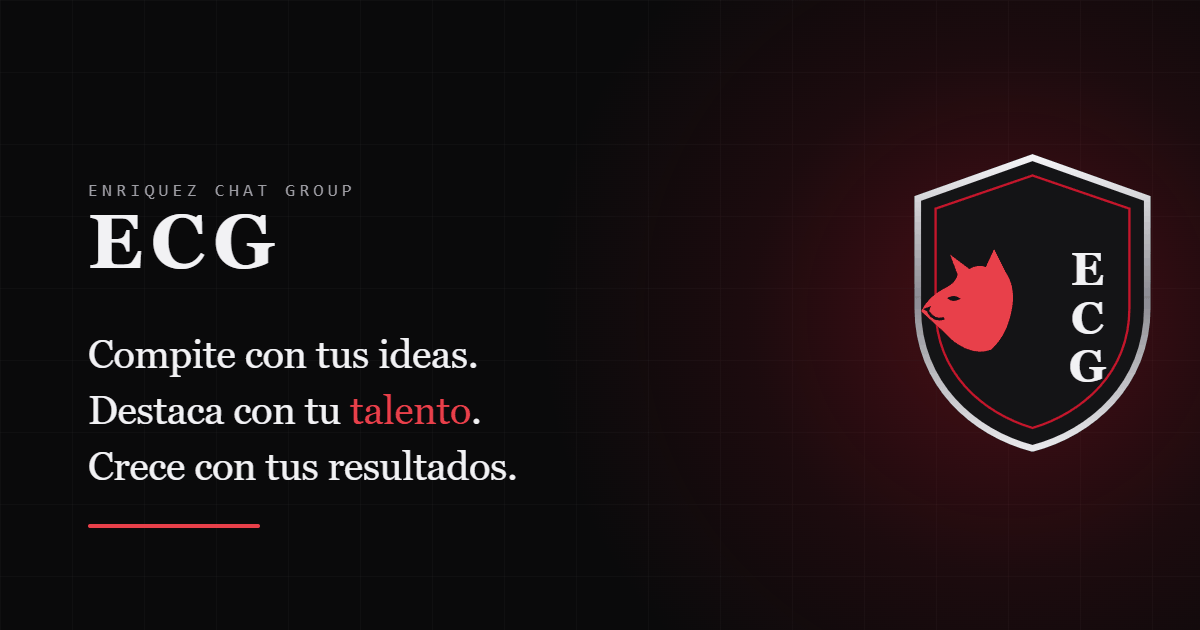
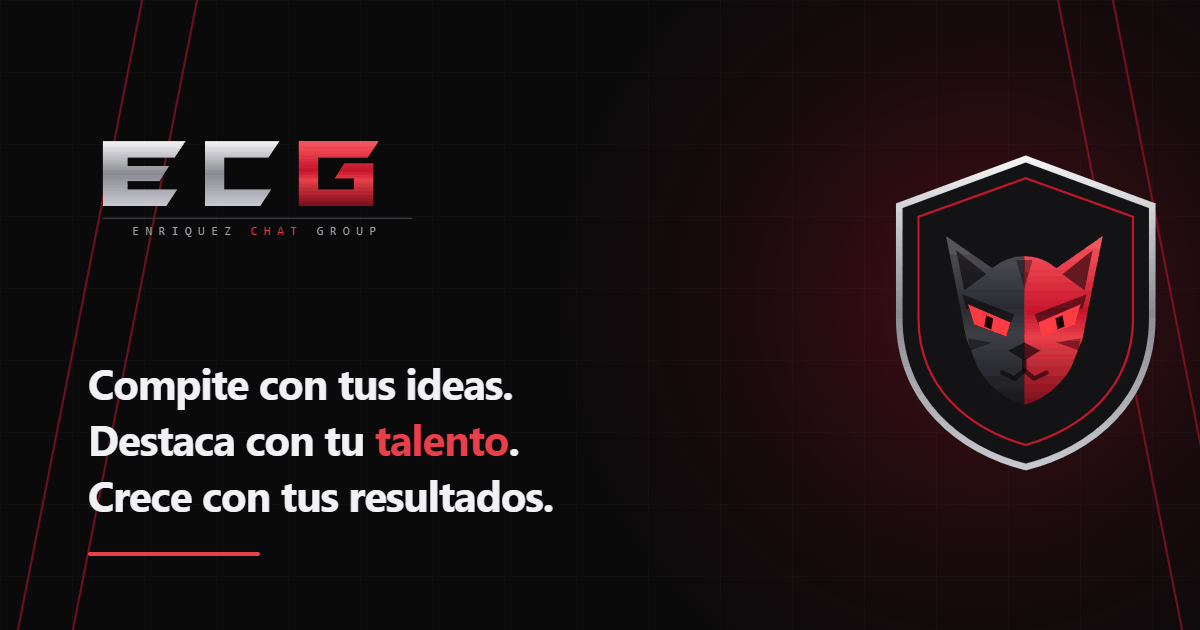
Rehacer la identidad siguiendo la referencia de marca
El puma pasa de perfil a vista frontal, partido en vertical entre metal y
rojo, con ojos rasgados y pupila felina. La version anterior de perfil
resultaba demasiado amable para lo que pedia la referencia.

Nuevo logotipo con letras angulares dibujadas como trazados, biseladas,
con la G en rojo, filete y el nombre completo debajo. Sustituye al ECG en
serif del hero, porque una serif clasica no casa con un logotipo angular;
los titulares vuelven a la sans.

Anade vetas rojas en diagonal al fondo del hero y rehace el emblema, el
favicon y la imagen de Open Graph con la marca nueva.

diff --git a/index.html b/index.html
@@ -25,8 +25,8 @@
 <meta name="twitter:description" content="Debate, competencia y economia en un solo ecosistema. Lista de espera abierta.">
 <meta name="twitter:image" content="https://elpicantecl052-pixel.github.io/ECG/assets/og-image.png">
 <meta name="twitter:image:alt" content="ECG — Compite con tus ideas. Destaca con tu talento. Crece con tus resultados.">
-<link rel="stylesheet" href="css/reset.css?v=10">
-<link rel="stylesheet" href="css/styles.css?v=10">
+<link rel="stylesheet" href="css/reset.css?v=11">
+<link rel="stylesheet" href="css/styles.css?v=11">
 <!-- Analiticas pendientes: crea un sitio gratuito en goatcounter.com
      y pon tu codigo en GOATCOUNTER, dentro de tools/build.py. -->
 </head>
@@ -36,11 +36,12 @@
 <header class="nav" role="banner">
   <div class="nav__in">
     <a class="brand" href="#top" aria-label="ECG, inicio">
-      <svg class="brand__mark" viewBox="0 0 90 100" aria-hidden="true" focusable="false">
-        <path d="M8 54 C 12 46, 18 41, 26 37 C 31 34.5, 33.5 31.5, 34.5 27.5 L 29 13 L 43 23.5 C 47 21, 51 20.5, 55 22 L 61 9 L 69.5 26 C 74 32, 76 42, 74 52 C 72 64, 67.5 74, 59 82 C 47 87, 33 79, 25.5 70 C 19 64, 12 58, 8 54 Z" fill="currentColor"/>
-        <path d="M27 44.5 C 30 42.5, 34 42.5, 36.5 45 C 34 47, 30 47.5, 27 44.5 Z" fill="var(--bg)"/>
-        <path d="M9.5 52.5 L15 50.5 L13.5 55 Z" fill="var(--bg)"/>
-        <path d="M13.5 55 C 16 59, 20 60.5, 24 59.5" fill="none" stroke="var(--bg)" stroke-width="2" stroke-linecap="round"/>
+      <svg class="brand__mark" viewBox="0 0 100 100" aria-hidden="true" focusable="false">
+        <defs><clipPath id="bm1"><rect x="50" y="0" width="50" height="100"/></clipPath></defs>
+        <path d="M50 95 C 42 93, 33 87, 27 77 L 21 62 L 18 46 L 11 11 L 34 27 C 39 23, 44 21, 50 21 C 56 21, 61 23, 66 27 L 89 11 L 82 46 L 79 62 L 73 77 C 67 87, 58 93, 50 95 Z" fill="var(--metal-1)" opacity=".55"/>
+        <g clip-path="url(#bm1)"><path d="M50 95 C 42 93, 33 87, 27 77 L 21 62 L 18 46 L 11 11 L 34 27 C 39 23, 44 21, 50 21 C 56 21, 61 23, 66 27 L 89 11 L 82 46 L 79 62 L 73 77 C 67 87, 58 93, 50 95 Z" fill="var(--accent-deep)"/></g>
+        <path d="M22 45 L43 54 L41 61 L25 55 Z" fill="var(--accent)"/>
+        <path d="M78 45 L57 54 L59 61 L75 55 Z" fill="var(--accent)"/>
       </svg>
       <span class="brand__word">ECG</span>
       <span class="brand__full">Enriquez Chat Group</span>
@@ -77,6 +78,7 @@
   <section class="hero" id="top">
     <div class="hero__field" aria-hidden="true">
       <div class="hero__grid"></div>
+      <div class="hero__vetas"></div>
       <div class="hero__glow"></div>
     </div>
 
@@ -84,9 +86,12 @@
       <p class="eyebrow reveal">Enriquez Chat Group · Plataforma social global</p>
 
       <div class="hero__lockup reveal">
-        <img class="hero__emblema" src="assets/emblema.svg" width="150" height="180"
-             alt="Emblema de ECG: un escudo partido en dos mitades, con un puma chileno de perfil a la izquierda y las letras E, C y G a la derecha.">
-        <h1 class="hero__h1">ECG</h1>
+        <img class="hero__emblema" src="assets/emblema.svg" width="106" height="120"
+             alt="">
+        <h1 class="hero__h1">
+          <img src="assets/logotipo.svg" width="260" height="95"
+               alt="ECG, Enriquez Chat Group">
+        </h1>
       </div>
 
       <p class="hero__motto reveal">
@@ -750,11 +755,12 @@
   <div class="wrap foot__in">
     <div class="foot__brand">
       <a class="brand" href="#top" aria-label="ECG, volver arriba">
-        <svg class="brand__mark" viewBox="0 0 90 100" aria-hidden="true" focusable="false">
-        <path d="M8 54 C 12 46, 18 41, 26 37 C 31 34.5, 33.5 31.5, 34.5 27.5 L 29 13 L 43 23.5 C 47 21, 51 20.5, 55 22 L 61 9 L 69.5 26 C 74 32, 76 42, 74 52 C 72 64, 67.5 74, 59 82 C 47 87, 33 79, 25.5 70 C 19 64, 12 58, 8 54 Z" fill="currentColor"/>
-        <path d="M27 44.5 C 30 42.5, 34 42.5, 36.5 45 C 34 47, 30 47.5, 27 44.5 Z" fill="var(--bg)"/>
-        <path d="M9.5 52.5 L15 50.5 L13.5 55 Z" fill="var(--bg)"/>
-        <path d="M13.5 55 C 16 59, 20 60.5, 24 59.5" fill="none" stroke="var(--bg)" stroke-width="2" stroke-linecap="round"/>
+        <svg class="brand__mark" viewBox="0 0 100 100" aria-hidden="true" focusable="false">
+        <defs><clipPath id="bm2"><rect x="50" y="0" width="50" height="100"/></clipPath></defs>
+        <path d="M50 95 C 42 93, 33 87, 27 77 L 21 62 L 18 46 L 11 11 L 34 27 C 39 23, 44 21, 50 21 C 56 21, 61 23, 66 27 L 89 11 L 82 46 L 79 62 L 73 77 C 67 87, 58 93, 50 95 Z" fill="var(--metal-1)" opacity=".55"/>
+        <g clip-path="url(#bm2)"><path d="M50 95 C 42 93, 33 87, 27 77 L 21 62 L 18 46 L 11 11 L 34 27 C 39 23, 44 21, 50 21 C 56 21, 61 23, 66 27 L 89 11 L 82 46 L 79 62 L 73 77 C 67 87, 58 93, 50 95 Z" fill="var(--accent-deep)"/></g>
+        <path d="M22 45 L43 54 L41 61 L25 55 Z" fill="var(--accent)"/>
+        <path d="M78 45 L57 54 L59 61 L75 55 Z" fill="var(--accent)"/>
       </svg>
         <span class="brand__word">ECG</span>
       <span class="brand__full">Enriquez Chat Group</span>
@@ -793,7 +799,7 @@
   </div>
 </footer>
 
-<script src="js/main.js?v=10"></script>
-<script src="js/interactive.js?v=10"></script>
+<script src="js/main.js?v=11"></script>
+<script src="js/interactive.js?v=11"></script>
 </body>
 </html>

diff --git a/artifact.html b/artifact.html
@@ -1,17 +1,18 @@
 <title>ECG</title>
-<link rel="stylesheet" href="css/reset.css?v=10">
-<link rel="stylesheet" href="css/styles.css?v=10">
+<link rel="stylesheet" href="css/reset.css?v=11">
+<link rel="stylesheet" href="css/styles.css?v=11">
 
 <a class="skip" href="#main">Saltar al contenido</a>
 
 <header class="nav" role="banner">
   <div class="nav__in">
     <a class="brand" href="#top" aria-label="ECG, inicio">
-      <svg class="brand__mark" viewBox="0 0 90 100" aria-hidden="true" focusable="false">
-        <path d="M8 54 C 12 46, 18 41, 26 37 C 31 34.5, 33.5 31.5, 34.5 27.5 L 29 13 L 43 23.5 C 47 21, 51 20.5, 55 22 L 61 9 L 69.5 26 C 74 32, 76 42, 74 52 C 72 64, 67.5 74, 59 82 C 47 87, 33 79, 25.5 70 C 19 64, 12 58, 8 54 Z" fill="currentColor"/>
-        <path d="M27 44.5 C 30 42.5, 34 42.5, 36.5 45 C 34 47, 30 47.5, 27 44.5 Z" fill="var(--bg)"/>
-        <path d="M9.5 52.5 L15 50.5 L13.5 55 Z" fill="var(--bg)"/>
-        <path d="M13.5 55 C 16 59, 20 60.5, 24 59.5" fill="none" stroke="var(--bg)" stroke-width="2" stroke-linecap="round"/>
+      <svg class="brand__mark" viewBox="0 0 100 100" aria-hidden="true" focusable="false">
+        <defs><clipPath id="bm1"><rect x="50" y="0" width="50" height="100"/></clipPath></defs>
+        <path d="M50 95 C 42 93, 33 87, 27 77 L 21 62 L 18 46 L 11 11 L 34 27 C 39 23, 44 21, 50 21 C 56 21, 61 23, 66 27 L 89 11 L 82 46 L 79 62 L 73 77 C 67 87, 58 93, 50 95 Z" fill="var(--metal-1)" opacity=".55"/>
+        <g clip-path="url(#bm1)"><path d="M50 95 C 42 93, 33 87, 27 77 L 21 62 L 18 46 L 11 11 L 34 27 C 39 23, 44 21, 50 21 C 56 21, 61 23, 66 27 L 89 11 L 82 46 L 79 62 L 73 77 C 67 87, 58 93, 50 95 Z" fill="var(--accent-deep)"/></g>
+        <path d="M22 45 L43 54 L41 61 L25 55 Z" fill="var(--accent)"/>
+        <path d="M78 45 L57 54 L59 61 L75 55 Z" fill="var(--accent)"/>
       </svg>
       <span class="brand__word">ECG</span>
       <span class="brand__full">Enriquez Chat Group</span>
@@ -48,6 +49,7 @@
   <section class="hero" id="top">
     <div class="hero__field" aria-hidden="true">
       <div class="hero__grid"></div>
+      <div class="hero__vetas"></div>
       <div class="hero__glow"></div>
     </div>
 
@@ -55,9 +57,12 @@
       <p class="eyebrow reveal">Enriquez Chat Group · Plataforma social global</p>
 
       <div class="hero__lockup reveal">
-        <img class="hero__emblema" src="assets/emblema.svg" width="150" height="180"
-             alt="Emblema de ECG: un escudo partido en dos mitades, con un puma chileno de perfil a la izquierda y las letras E, C y G a la derecha.">
-        <h1 class="hero__h1">ECG</h1>
+        <img class="hero__emblema" src="assets/emblema.svg" width="106" height="120"
+             alt="">
+        <h1 class="hero__h1">
+          <img src="assets/logotipo.svg" width="260" height="95"
+               alt="ECG, Enriquez Chat Group">
+        </h1>
       </div>
 
       <p class="hero__motto reveal">
@@ -721,11 +726,12 @@
   <div class="wrap foot__in">
     <div class="foot__brand">
       <a class="brand" href="#top" aria-label="ECG, volver arriba">
-        <svg class="brand__mark" viewBox="0 0 90 100" aria-hidden="true" focusable="false">
-        <path d="M8 54 C 12 46, 18 41, 26 37 C 31 34.5, 33.5 31.5, 34.5 27.5 L 29 13 L 43 23.5 C 47 21, 51 20.5, 55 22 L 61 9 L 69.5 26 C 74 32, 76 42, 74 52 C 72 64, 67.5 74, 59 82 C 47 87, 33 79, 25.5 70 C 19 64, 12 58, 8 54 Z" fill="currentColor"/>
-        <path d="M27 44.5 C 30 42.5, 34 42.5, 36.5 45 C 34 47, 30 47.5, 27 44.5 Z" fill="var(--bg)"/>
-        <path d="M9.5 52.5 L15 50.5 L13.5 55 Z" fill="var(--bg)"/>
-        <path d="M13.5 55 C 16 59, 20 60.5, 24 59.5" fill="none" stroke="var(--bg)" stroke-width="2" stroke-linecap="round"/>
+        <svg class="brand__mark" viewBox="0 0 100 100" aria-hidden="true" focusable="false">
+        <defs><clipPath id="bm2"><rect x="50" y="0" width="50" height="100"/></clipPath></defs>
+        <path d="M50 95 C 42 93, 33 87, 27 77 L 21 62 L 18 46 L 11 11 L 34 27 C 39 23, 44 21, 50 21 C 56 21, 61 23, 66 27 L 89 11 L 82 46 L 79 62 L 73 77 C 67 87, 58 93, 50 95 Z" fill="var(--metal-1)" opacity=".55"/>
+        <g clip-path="url(#bm2)"><path d="M50 95 C 42 93, 33 87, 27 77 L 21 62 L 18 46 L 11 11 L 34 27 C 39 23, 44 21, 50 21 C 56 21, 61 23, 66 27 L 89 11 L 82 46 L 79 62 L 73 77 C 67 87, 58 93, 50 95 Z" fill="var(--accent-deep)"/></g>
+        <path d="M22 45 L43 54 L41 61 L25 55 Z" fill="var(--accent)"/>
+        <path d="M78 45 L57 54 L59 61 L75 55 Z" fill="var(--accent)"/>
       </svg>
         <span class="brand__word">ECG</span>
       <span class="brand__full">Enriquez Chat Group</span>
@@ -764,5 +770,5 @@
   </div>
 </footer>
 
-<script src="js/main.js?v=10"></script>
-<script src="js/interactive.js?v=10"></script>
+<script src="js/main.js?v=11"></script>
+<script src="js/interactive.js?v=11"></script>

diff --git a/_body.html b/_body.html
@@ -3,11 +3,12 @@
 <header class="nav" role="banner">
   <div class="nav__in">
     <a class="brand" href="#top" aria-label="ECG, inicio">
-      <svg class="brand__mark" viewBox="0 0 90 100" aria-hidden="true" focusable="false">
-        <path d="M8 54 C 12 46, 18 41, 26 37 C 31 34.5, 33.5 31.5, 34.5 27.5 L 29 13 L 43 23.5 C 47 21, 51 20.5, 55 22 L 61 9 L 69.5 26 C 74 32, 76 42, 74 52 C 72 64, 67.5 74, 59 82 C 47 87, 33 79, 25.5 70 C 19 64, 12 58, 8 54 Z" fill="currentColor"/>
-        <path d="M27 44.5 C 30 42.5, 34 42.5, 36.5 45 C 34 47, 30 47.5, 27 44.5 Z" fill="var(--bg)"/>
-        <path d="M9.5 52.5 L15 50.5 L13.5 55 Z" fill="var(--bg)"/>
-        <path d="M13.5 55 C 16 59, 20 60.5, 24 59.5" fill="none" stroke="var(--bg)" stroke-width="2" stroke-linecap="round"/>
+      <svg class="brand__mark" viewBox="0 0 100 100" aria-hidden="true" focusable="false">
+        <defs><clipPath id="bm1"><rect x="50" y="0" width="50" height="100"/></clipPath></defs>
+        <path d="M50 95 C 42 93, 33 87, 27 77 L 21 62 L 18 46 L 11 11 L 34 27 C 39 23, 44 21, 50 21 C 56 21, 61 23, 66 27 L 89 11 L 82 46 L 79 62 L 73 77 C 67 87, 58 93, 50 95 Z" fill="var(--metal-1)" opacity=".55"/>
+        <g clip-path="url(#bm1)"><path d="M50 95 C 42 93, 33 87, 27 77 L 21 62 L 18 46 L 11 11 L 34 27 C 39 23, 44 21, 50 21 C 56 21, 61 23, 66 27 L 89 11 L 82 46 L 79 62 L 73 77 C 67 87, 58 93, 50 95 Z" fill="var(--accent-deep)"/></g>
+        <path d="M22 45 L43 54 L41 61 L25 55 Z" fill="var(--accent)"/>
+        <path d="M78 45 L57 54 L59 61 L75 55 Z" fill="var(--accent)"/>
       </svg>
       <span class="brand__word">ECG</span>
       <span class="brand__full">Enriquez Chat Group</span>
@@ -44,6 +45,7 @@
   <section class="hero" id="top">
     <div class="hero__field" aria-hidden="true">
       <div class="hero__grid"></div>
+      <div class="hero__vetas"></div>
       <div class="hero__glow"></div>
     </div>
 
@@ -51,9 +53,12 @@
       <p class="eyebrow reveal">Enriquez Chat Group · Plataforma social global</p>
 
       <div class="hero__lockup reveal">
-        <img class="hero__emblema" src="assets/emblema.svg" width="150" height="180"
-             alt="Emblema de ECG: un escudo partido en dos mitades, con un puma chileno de perfil a la izquierda y las letras E, C y G a la derecha.">
-        <h1 class="hero__h1">ECG</h1>
+        <img class="hero__emblema" src="assets/emblema.svg" width="106" height="120"
+             alt="">
+        <h1 class="hero__h1">
+          <img src="assets/logotipo.svg" width="260" height="95"
+               alt="ECG, Enriquez Chat Group">
+        </h1>
       </div>
 
       <p class="hero__motto reveal">
@@ -717,11 +722,12 @@
   <div class="wrap foot__in">
     <div class="foot__brand">
       <a class="brand" href="#top" aria-label="ECG, volver arriba">
-        <svg class="brand__mark" viewBox="0 0 90 100" aria-hidden="true" focusable="false">
-        <path d="M8 54 C 12 46, 18 41, 26 37 C 31 34.5, 33.5 31.5, 34.5 27.5 L 29 13 L 43 23.5 C 47 21, 51 20.5, 55 22 L 61 9 L 69.5 26 C 74 32, 76 42, 74 52 C 72 64, 67.5 74, 59 82 C 47 87, 33 79, 25.5 70 C 19 64, 12 58, 8 54 Z" fill="currentColor"/>
-        <path d="M27 44.5 C 30 42.5, 34 42.5, 36.5 45 C 34 47, 30 47.5, 27 44.5 Z" fill="var(--bg)"/>
-        <path d="M9.5 52.5 L15 50.5 L13.5 55 Z" fill="var(--bg)"/>
-        <path d="M13.5 55 C 16 59, 20 60.5, 24 59.5" fill="none" stroke="var(--bg)" stroke-width="2" stroke-linecap="round"/>
+        <svg class="brand__mark" viewBox="0 0 100 100" aria-hidden="true" focusable="false">
+        <defs><clipPath id="bm2"><rect x="50" y="0" width="50" height="100"/></clipPath></defs>
+        <path d="M50 95 C 42 93, 33 87, 27 77 L 21 62 L 18 46 L 11 11 L 34 27 C 39 23, 44 21, 50 21 C 56 21, 61 23, 66 27 L 89 11 L 82 46 L 79 62 L 73 77 C 67 87, 58 93, 50 95 Z" fill="var(--metal-1)" opacity=".55"/>
+        <g clip-path="url(#bm2)"><path d="M50 95 C 42 93, 33 87, 27 77 L 21 62 L 18 46 L 11 11 L 34 27 C 39 23, 44 21, 50 21 C 56 21, 61 23, 66 27 L 89 11 L 82 46 L 79 62 L 73 77 C 67 87, 58 93, 50 95 Z" fill="var(--accent-deep)"/></g>
+        <path d="M22 45 L43 54 L41 61 L25 55 Z" fill="var(--accent)"/>
+        <path d="M78 45 L57 54 L59 61 L75 55 Z" fill="var(--accent)"/>
       </svg>
         <span class="brand__word">ECG</span>
       <span class="brand__full">Enriquez Chat Group</span>

diff --git a/agora.html b/agora.html
@@ -9,9 +9,9 @@
 <meta name="theme-color" content="#0A0B0D" media="(prefers-color-scheme: dark)">
 <meta name="theme-color" content="#FBFBF9" media="(prefers-color-scheme: light)">
 <link rel="icon" href="assets/favicon.svg" type="image/svg+xml">
-<link rel="stylesheet" href="css/reset.css?v=10">
-<link rel="stylesheet" href="css/styles.css?v=10">
-<link rel="stylesheet" href="css/agora.css?v=10">
+<link rel="stylesheet" href="css/reset.css?v=11">
+<link rel="stylesheet" href="css/styles.css?v=11">
+<link rel="stylesheet" href="css/agora.css?v=11">
 </head>
 <body>
 <a class="skip" href="#main">Saltar al contenido</a>
@@ -19,11 +19,12 @@
 <header class="nav" role="banner">
   <div class="nav__in">
     <a class="brand" href="index.html" aria-label="ECG, inicio">
-      <svg class="brand__mark" viewBox="0 0 90 100" aria-hidden="true" focusable="false">
-        <path d="M8 54 C 12 46, 18 41, 26 37 C 31 34.5, 33.5 31.5, 34.5 27.5 L 29 13 L 43 23.5 C 47 21, 51 20.5, 55 22 L 61 9 L 69.5 26 C 74 32, 76 42, 74 52 C 72 64, 67.5 74, 59 82 C 47 87, 33 79, 25.5 70 C 19 64, 12 58, 8 54 Z" fill="currentColor"/>
-        <path d="M27 44.5 C 30 42.5, 34 42.5, 36.5 45 C 34 47, 30 47.5, 27 44.5 Z" fill="var(--bg)"/>
-        <path d="M9.5 52.5 L15 50.5 L13.5 55 Z" fill="var(--bg)"/>
-        <path d="M13.5 55 C 16 59, 20 60.5, 24 59.5" fill="none" stroke="var(--bg)" stroke-width="2" stroke-linecap="round"/>
+      <svg class="brand__mark" viewBox="0 0 100 100" aria-hidden="true" focusable="false">
+        <defs><clipPath id="bm1"><rect x="50" y="0" width="50" height="100"/></clipPath></defs>
+        <path d="M50 95 C 42 93, 33 87, 27 77 L 21 62 L 18 46 L 11 11 L 34 27 C 39 23, 44 21, 50 21 C 56 21, 61 23, 66 27 L 89 11 L 82 46 L 79 62 L 73 77 C 67 87, 58 93, 50 95 Z" fill="var(--metal-1)" opacity=".55"/>
+        <g clip-path="url(#bm1)"><path d="M50 95 C 42 93, 33 87, 27 77 L 21 62 L 18 46 L 11 11 L 34 27 C 39 23, 44 21, 50 21 C 56 21, 61 23, 66 27 L 89 11 L 82 46 L 79 62 L 73 77 C 67 87, 58 93, 50 95 Z" fill="var(--accent-deep)"/></g>
+        <path d="M22 45 L43 54 L41 61 L25 55 Z" fill="var(--accent)"/>
+        <path d="M78 45 L57 54 L59 61 L75 55 Z" fill="var(--accent)"/>
       </svg>
       <span class="brand__word">ECG</span>
       <span class="brand__full">Enriquez Chat Group</span>
@@ -157,9 +158,9 @@
   </div>
 </footer>
 
-<script src="js/main.js?v=10"></script>
+<script src="js/main.js?v=11"></script>
 <script src="https://cdn.jsdelivr.net/npm/@supabase/supabase-js@2.45.4/dist/umd/supabase.js"></script>
-<script src="js/app/store.js?v=10"></script>
-<script src="js/app/agora.js?v=10"></script>
+<script src="js/app/store.js?v=11"></script>
+<script src="js/app/agora.js?v=11"></script>
 </body>
 </html>

diff --git a/legal.html b/legal.html
@@ -10,8 +10,8 @@
 <meta name="theme-color" content="#FBFBF9" media="(prefers-color-scheme: light)">
 <link rel="canonical" href="https://elpicantecl052-pixel.github.io/ECG/legal.html">
 <link rel="icon" href="assets/favicon.svg" type="image/svg+xml">
-<link rel="stylesheet" href="css/reset.css?v=10">
-<link rel="stylesheet" href="css/styles.css?v=10">
+<link rel="stylesheet" href="css/reset.css?v=11">
+<link rel="stylesheet" href="css/styles.css?v=11">
 </head>
 <body>
 <a class="skip" href="#main">Saltar al contenido</a>
@@ -19,11 +19,12 @@
 <header class="nav" role="banner">
   <div class="nav__in">
     <a class="brand" href="index.html" aria-label="ECG, inicio">
-      <svg class="brand__mark" viewBox="0 0 90 100" aria-hidden="true" focusable="false">
-        <path d="M8 54 C 12 46, 18 41, 26 37 C 31 34.5, 33.5 31.5, 34.5 27.5 L 29 13 L 43 23.5 C 47 21, 51 20.5, 55 22 L 61 9 L 69.5 26 C 74 32, 76 42, 74 52 C 72 64, 67.5 74, 59 82 C 47 87, 33 79, 25.5 70 C 19 64, 12 58, 8 54 Z" fill="currentColor"/>
-        <path d="M27 44.5 C 30 42.5, 34 42.5, 36.5 45 C 34 47, 30 47.5, 27 44.5 Z" fill="var(--bg)"/>
-        <path d="M9.5 52.5 L15 50.5 L13.5 55 Z" fill="var(--bg)"/>
-        <path d="M13.5 55 C 16 59, 20 60.5, 24 59.5" fill="none" stroke="var(--bg)" stroke-width="2" stroke-linecap="round"/>
+      <svg class="brand__mark" viewBox="0 0 100 100" aria-hidden="true" focusable="false">
+        <defs><clipPath id="bm1"><rect x="50" y="0" width="50" height="100"/></clipPath></defs>
+        <path d="M50 95 C 42 93, 33 87, 27 77 L 21 62 L 18 46 L 11 11 L 34 27 C 39 23, 44 21, 50 21 C 56 21, 61 23, 66 27 L 89 11 L 82 46 L 79 62 L 73 77 C 67 87, 58 93, 50 95 Z" fill="var(--metal-1)" opacity=".55"/>
+        <g clip-path="url(#bm1)"><path d="M50 95 C 42 93, 33 87, 27 77 L 21 62 L 18 46 L 11 11 L 34 27 C 39 23, 44 21, 50 21 C 56 21, 61 23, 66 27 L 89 11 L 82 46 L 79 62 L 73 77 C 67 87, 58 93, 50 95 Z" fill="var(--accent-deep)"/></g>
+        <path d="M22 45 L43 54 L41 61 L25 55 Z" fill="var(--accent)"/>
+        <path d="M78 45 L57 54 L59 61 L75 55 Z" fill="var(--accent)"/>
       </svg>
       <span class="brand__word">ECG</span>
       <span class="brand__full">Enriquez Chat Group</span>
@@ -218,6 +219,6 @@
   </div>
 </footer>
 
-<script src="js/main.js?v=10"></script>
+<script src="js/main.js?v=11"></script>
 </body>
 </html>

diff --git a/css/styles.css b/css/styles.css
@@ -26,7 +26,7 @@
 
   /* — Tipografía — */
   --font-sans: ui-sans-serif, -apple-system, "Segoe UI Variable Display", "Segoe UI", Inter, Roboto, system-ui, sans-serif;
-  --font-display: "Hoefler Text", "Iowan Old Style", Georgia, "Times New Roman", serif;
+  --font-display: var(--font-sans);
   --font-mono: ui-monospace, "Cascadia Code", "SF Mono", SFMono-Regular, Consolas, "Liberation Mono", monospace;
 
   --fs-h1:   clamp(3.4rem, 13vw, 8.5rem);
@@ -275,17 +275,15 @@ strong { font-weight: 650; }
 }
 
 .brand__mark {
-  width: 27px;
+  width: 30px;
   height: 30px;
   flex-shrink: 0;
-  color: var(--accent);
 }
 
 .brand__word {
-  font-family: var(--font-display);
-  font-size: 1.2rem;
-  font-weight: 700;
-  letter-spacing: .2em;
+  font-size: 1.14rem;
+  font-weight: 800;
+  letter-spacing: .22em;
 }
 
 .brand__full {
@@ -387,6 +385,19 @@ strong { font-weight: 650; }
   background-size: 72px 72px;
   mask-image: radial-gradient(118% 78% at 18% 8%, #000 8%, transparent 72%);
   -webkit-mask-image: radial-gradient(118% 78% at 18% 8%, #000 8%, transparent 72%);
+}
+
+.hero__vetas {
+  position: absolute;
+  inset: 0;
+  background:
+    linear-gradient(104deg, transparent 18%, var(--accent-deep) 18.15%, transparent 18.5%),
+    linear-gradient(104deg, transparent 23%, var(--accent-deep) 23.12%, transparent 23.4%),
+    linear-gradient(76deg, transparent 78%, var(--accent-deep) 78.15%, transparent 78.5%),
+    linear-gradient(76deg, transparent 84%, var(--accent-deep) 84.12%, transparent 84.4%);
+  opacity: .5;
+  mask-image: linear-gradient(to bottom, #000 10%, transparent 92%);
+  -webkit-mask-image: linear-gradient(to bottom, #000 10%, transparent 92%);
 }
 
 .hero__glow {
@@ -2000,15 +2011,23 @@ strong { font-weight: 650; }
 
 .hero__lockup {
   display: flex;
-  align-items: center;
-  gap: clamp(18px, 3vw, 34px);
+  flex-direction: column;
+  align-items: flex-start;
+  gap: clamp(14px, 2.4vw, 24px);
   margin-bottom: clamp(20px, 3.4vh, 34px);
 }
 
 .hero__emblema {
-  width: clamp(76px, 12vw, 128px);
+  width: clamp(72px, 10vw, 104px);
   height: auto;
-  flex-shrink: 0;
 }
 
-.hero__lockup .hero__h1 { margin-bottom: 0; }
+.hero__lockup .hero__h1 {
+  margin-bottom: 0;
+  line-height: 0;
+}
+
+.hero__lockup .hero__h1 img {
+  width: clamp(240px, 36vw, 420px);
+  height: auto;
+}
